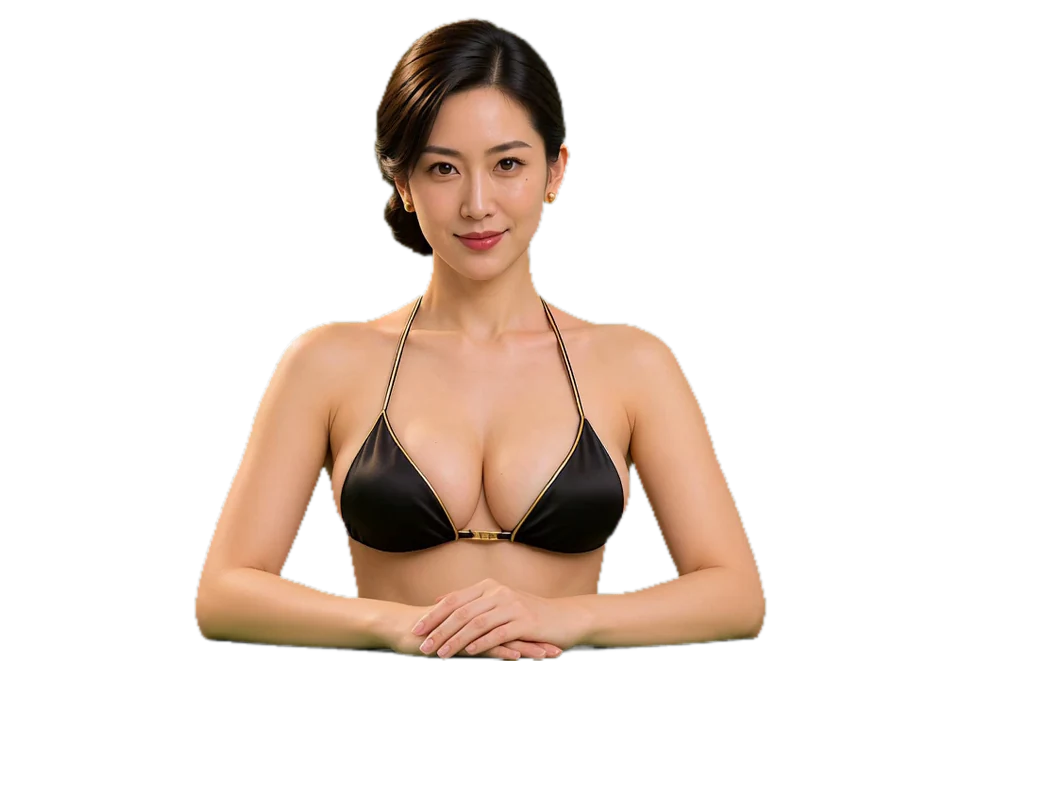
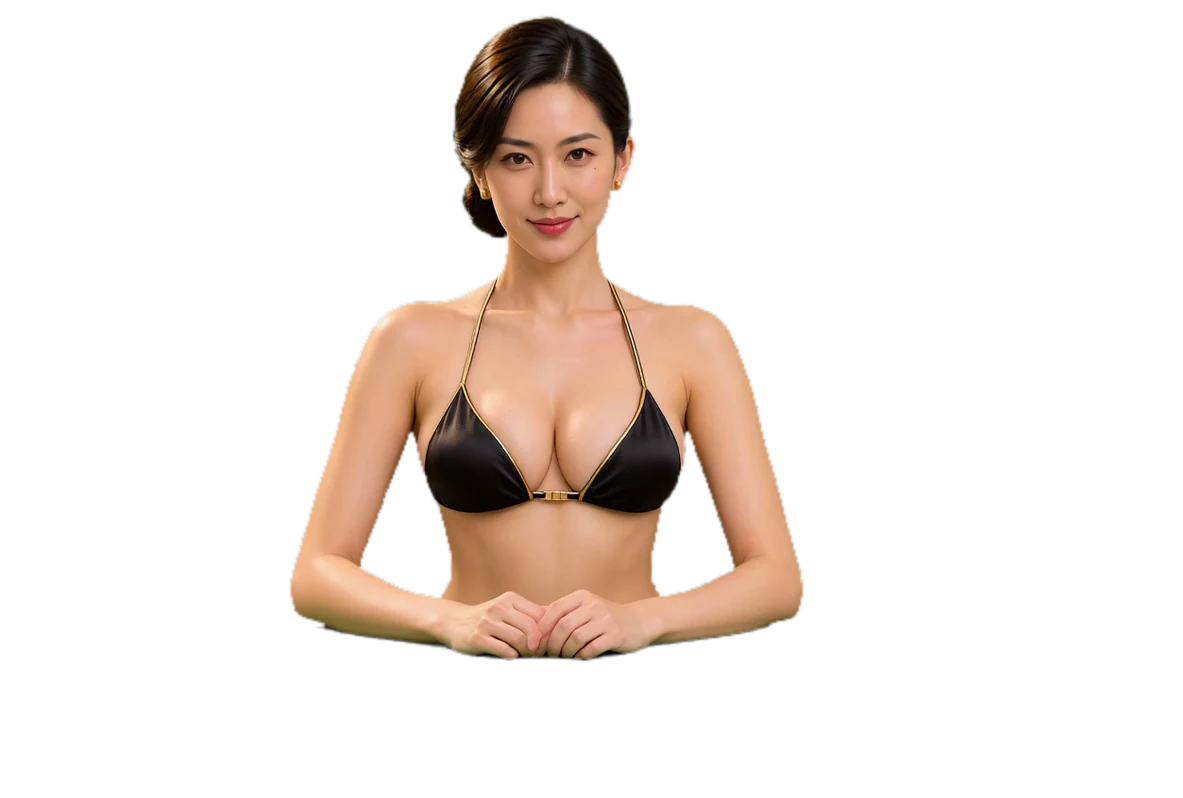
Dealer preview: table A with keyed deal / collect clips from the new set (still behind ?dealertest)
Claude-Session: https://claude.ai/code/session_011oS1hF5NfJ3QT3qcWv1JPQ

Changed region(s): [[0.1875, 0.0, 0.75, 0.8421]]

diff --git a/casino/index.html b/casino/index.html
@@ -3977,10 +3977,12 @@ html.ios-app .toasts { top: calc(env(safe-area-inset-top, 0px) + 86px); }
   // ?dealertest brings her back for a preview with the new keyed artwork (only table A has it so far)
   const DEALER_TEST = /[?&]dealertest\b/.test(location.search);
   const DEALER_PERSON = DEALER_TEST;
-  // new artwork: one still body cut from the green-screen video, plus her eyes for the blink (frame space 1056 × 798 = 352 × 266 × 3)
-  const DEALER_V3 = DEALER_TEST ? { A: { body: "art/dealers-v3/a-body.webp", blink: "art/dealers-v3/a-blink.webp", n: 11, eye: [405, 135, 151, 61], cut: 220,
-    // while cards go out she turns her head and looks down at them (head-turn video, card removed): 19 frames in, 1 held, 19 back
-    look: { src: "art/dealers-v3/a-look.webp", n: 39, cols: 8, hold: 19, at: [306, -7, 302, 327] } } } : {};
+  // new artwork (green-screen videos, keyed): a still body, her eyes for the blink, and deal / collect clips (25 frames each,
+  // drawn over the whole canvas). The canvas is 12% wider than the old portrait box so her reaching hands stay inside.
+  // Frame space 1183 × 798; hands are fractions of the canvas, the shoe a fraction of the old portrait box.
+  const DEALER_V3 = DEALER_TEST ? { A: { body: "art/dealers-v3/a-body.webp", blink: "art/dealers-v3/a-blink.webp", n: 12, eye: [478, 130, 156, 71], cut: 220,
+    clips: { deal: "art/dealers-v3/a-deal.webp", collect: "art/dealers-v3/a-collect.webp" }, clipN: 25, clipCols: 5, clipW: 789, clipH: 532,
+    hands: [[6, .795, .842], [11, .6, .85], [16, .42, .88]], shoe: [.83, .842] } } : {};
   if (!DEALER_PERSON) document.documentElement.classList.add("no-dealer-person");
   const DEALER_IDLE_COLUMNS = 8;
   const DEALER_IDLE_ROWS = 6;
@@ -4081,10 +4083,11 @@ html.ios-app .toasts { top: calc(env(safe-area-inset-top, 0px) + 86px); }
       this.stop();
       this.stage.dataset.dealer = dealer;
       this.art = DEALER_ART[dealer];
-      this.hand = DEALER_HANDS[dealer];
-      const [, x, y] = this.hand[0];
-      this.portrait.parentElement.style.setProperty("--shoe-mouth-x", (x * 100) + "%");
-      this.portrait.parentElement.style.setProperty("--shoe-mouth-y", (y * 100) + "%");
+      const nv = DEALER_V3[dealer];
+      this.hand = nv && nv.hands ? nv.hands : DEALER_HANDS[dealer];
+      const [, x, y] = this.hand[0], [sx, sy] = nv && nv.shoe ? nv.shoe : [x, y];
+      this.portrait.parentElement.style.setProperty("--shoe-mouth-x", (sx * 100) + "%");
+      this.portrait.parentElement.style.setProperty("--shoe-mouth-y", (sy * 100) + "%");
       const name = { ROOM: "联机", DRAGON: "A 桌", TIGER: "B 桌" }[dealer] ?? dealer + " 桌";
       this.stage.querySelector(".bac-scene-kicker").textContent = DEALER_PERSON ? name + "荷官" : name;
       for (const action of ["deal", "collect"]) {
@@ -4109,14 +4112,16 @@ html.ios-app .toasts { top: calc(env(safe-area-inset-top, 0px) + 86px); }
     }
     loadV3(v3) {
       this.idleContext?.clearRect(0, 0, this.layers.idle.width, this.layers.idle.height);
-      const body = new Image(), blink = new Image(), look = new Image(), set = this.idleImage = { v3, body, blink, look };
+      const body = new Image(), blink = new Image(), look = new Image(), clips = {}, set = this.idleImage = { v3, body, blink, look, clips };
       if (v3.look) look.src = v3.look.src;
+      for (const [a, src] of Object.entries(v3.clips || {})) { clips[a] = new Image(); clips[a].src = src; }
+      const cv = this.layers.idle; cv.style.left = "-6%"; cv.style.width = "112%";
       let n = 0; const done = () => { if (++n === 2 && this.idleImage === set) this.playIdle(); };
       body.onload = blink.onload = done; body.src = v3.body; blink.src = v3.blink;
     }
     // new artwork: she holds perfectly still and only her eyes move — a blink every 3–6 s, 11 frames at 24 fps
     playIdleV3() {
-      const canvas = this.layers.idle, { v3, body, blink, look } = this.idleImage, [ex, ey, ew, eh] = v3.eye, L = v3.look;
+      const canvas = this.layers.idle, { v3, body, blink, look, clips } = this.idleImage, [ex, ey, ew, eh] = v3.eye, L = v3.look;
       if (!body.naturalWidth || !blink.naturalWidth || this.idleRequest !== null) return;
       if (canvas.width !== body.naturalWidth) canvas.width = body.naturalWidth;
       if (canvas.height !== body.naturalHeight) canvas.height = body.naturalHeight;
@@ -4134,13 +4139,23 @@ html.ios-app .toasts { top: calc(env(safe-area-inset-top, 0px) + 86px); }
           }
         }
         if (li < 0 && now >= nextAt) { if (!start) start = now; f = Math.floor((now - start) * 24 / 1000); if (f >= v3.n) { f = -1; start = 0; nextAt = now + 3000 + rand(3000); } }
-        const key = li + "/" + f;
+        // deal / collect clip: 25 frames over one second, then back to the still
+        let ci = -1, clip = null;
+        if (this.v3Act) {
+          ci = Math.floor((now - this.v3Act.t0) * v3.clipN / DEALER_ACTION_MS);
+          clip = clips[this.v3Act.a];
+          if (ci >= v3.clipN || !clip || !clip.naturalWidth) { if (ci >= v3.clipN) this.v3Act = null; ci = -1; }
+          else f = -1;
+        }
+        const key = li + "/" + f + "/" + ci;
         if (key !== frame) {
           frame = key;
           const c = this.idleContext;
           c.clearRect(0, 0, canvas.width, canvas.height);
-          c.drawImage(body, 0, 0);
-          if (li >= 0) {
+          if (ci >= 0) c.drawImage(clip, (ci % v3.clipCols) * v3.clipW, Math.floor(ci / v3.clipCols) * v3.clipH, v3.clipW, v3.clipH, 0, 0, canvas.width, canvas.height);
+          else c.drawImage(body, 0, 0);
+          if (ci >= 0) {}
+          else if (li >= 0) {
             const [lx, ly, lw, lh] = L.at;
             c.clearRect(lx, Math.max(0, ly), lw, lh + Math.min(0, ly));
             c.drawImage(look, (li % L.cols) * lw, Math.floor(li / L.cols) * lh, lw, lh, lx, ly, lw, lh);
@@ -4214,7 +4229,8 @@ html.ios-app .toasts { top: calc(env(safe-area-inset-top, 0px) + 86px); }
       return this.tableMotion;
     }
     setArtwork(action) {
-      if (DEALER_V3[this.stage.dataset.dealer]) action = "idle";   // no deal / collect video yet: she stays in her idle pose
+      const v3 = DEALER_V3[this.stage.dataset.dealer];
+      if (v3) { if (action !== "idle" && v3.clips && v3.clips[action]) this.v3Act = { a: action, t0: performance.now() }; action = "idle"; }   // clips play on the same canvas
       this.action = action;
       this.tableMotion?.cancel(); this.tableMotion = null;
       this.tableCut(action);
